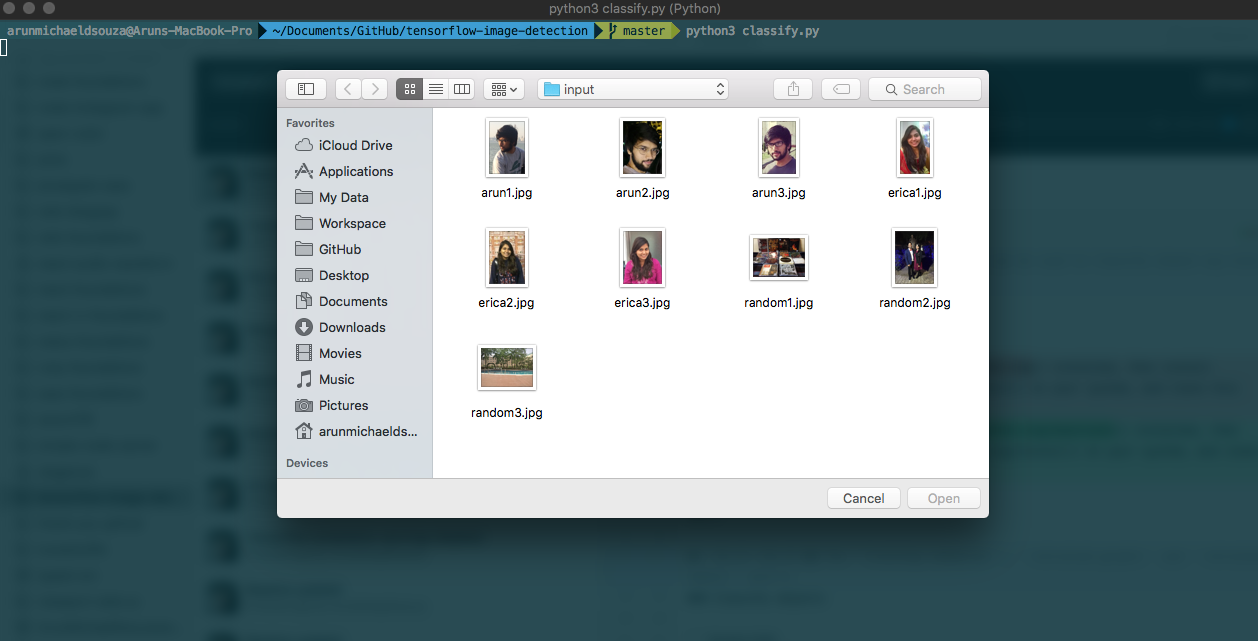
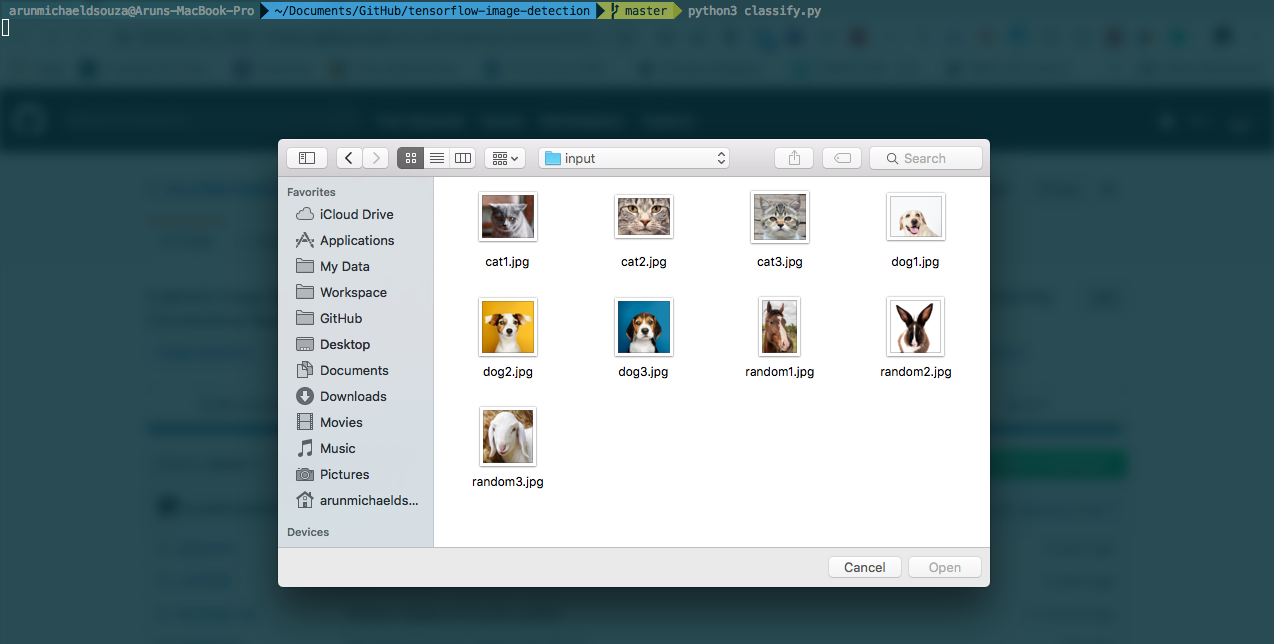
Readme and images updated

diff --git a/README.md b/README.md
@@ -29,20 +29,20 @@ Create the ``training_dataset`` folder and add the images for all the data sets 
 ---- /training_dataset
 |    |
 |    |
-|    ---- /arun
-|    |    arun1.jpg
-|    |    arun2.jpg
+|    ---- /cat
+|    |    cat1.jpg
+|    |    cat2.jpg
 |    |    ...
 |    |
 |    |
-|    ---- /erica
-|         erica1.jpg
-|         erica2.jpg
+|    ---- /dog
+|         dog1.jpg
+|         dog2.jpg
 |         ...
 |
 |     
 ```
-This enables classification of images between the ``arun`` and ``erica`` data sets.
+This enables classification of images between the ``cat`` and ``dog`` data sets.
 
 > Make sure to include multiple variants of the subject (side profiles, zoomed in images etc.), the more the images, the better is the result.
 
